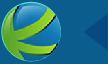
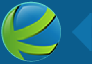
css issues fixed

diff --git a/www/templates/all.html b/www/templates/all.html
@@ -2,7 +2,7 @@
     <div class="bar bar-header header">
         <h1 class="title">
         <img src="img/backbutton.png" alt="Logo" class="head-logo" ui-sref="eventsList({tab: 'tickets'})"> 
-        <span>Koolbooking Events & Activities</span></h1>
+        <span>Events & Activities</span></h1>
     </div>
 
     <div id="all">
@@ -41,7 +41,7 @@
           <div class="row">
             <div class="col col-75">
               <h5 class="assertive" ng-bind="event.post_title"></h5>
-              <p>Events</p>
+              
             </div>
             <div class="col">
               <img src="img/book.png" alt="Book" ui-sref="eventDetails({event_id: event.id})" class="pull-right">

diff --git a/www/css/style.css b/www/css/style.css
@@ -180,7 +180,7 @@ border-bottom: 1px solid #0b5d8d !important;color: #84d4f5 !important;}
 .lgout{color: rgb(72, 221, 201);font-size: 27px !important;}
 .ion-refresh{color: rgb(72, 221, 201) !important;}
 .setngicn{color: rgb(72, 221, 201) !important;font-size: 34px !important;}
-.head-logo{position: relative;top: 6px;width: 53px;float: left;}
+.head-logo{position: relative;top: 6px;width: 45px;float: left;}
 .header span{color: #84d4f5;margin-left: -50px;text-transform: uppercase;font-size: 16px;
     font-weight: normal;}
 #skipbtn{position: fixed;bottom:0;left: 0;margin-bottom: 0;}
